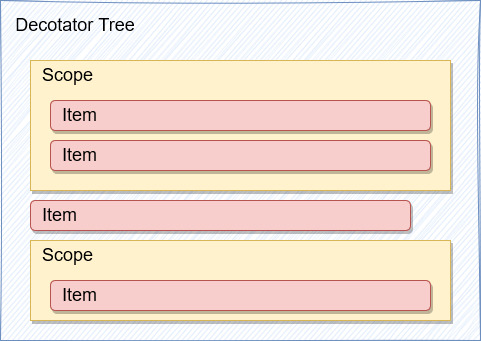
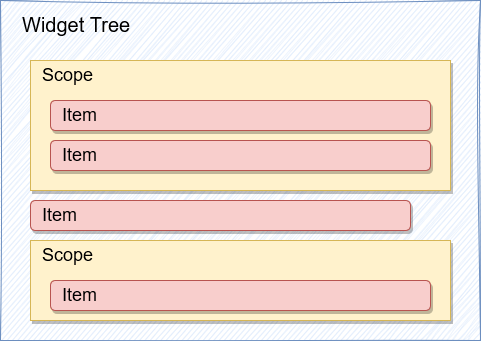
文檔 : 更新至 1.1.0 版本

Changed region(s): [[0.0312, 0.0293, 0.2807, 0.1173]]

diff --git a/Editor/Drawers/DisableIfScopeDrawer.cs b/Editor/Drawers/DisableIfScopeDrawer.cs
@@ -4,8 +4,6 @@ namespace Naukri.InspectorMaid.Editor.Drawers
 {
     public class DisableIfScopeDrawer : WidgetDrawerOf<DisableIfScopeAttribute>
     {
-        public HelpBox HelpBox { get; set; }
-
         public override void OnSceneGUI(IWidget widget)
         {
             var disable = GetBindingValue<bool>();

diff --git a/README.md b/README.md
@@ -2,14 +2,14 @@
 
 ![demo](./Documentation/Images/demo.gif)
 
-這是一個 Unity Inspector 的 UI 自定義工具。你可以使用他為你的 Component 建立一些簡單的互動功能而不需編寫專屬的 Editor。
+這是一個 Unity Inspector 的 UI 自定義工具。你可以使用他為你的 `Component` 中各個成員建立一些簡單的互動功能而不需編寫專屬的 Editor。
 
 Inspector Maid 具有以下幾大特色：
 
 - 使用 UIElement 進行繪製。
 - 可以在 Inspector 介面中直接存取屬性和函式。
-- 支援為同一目標加入多個裝飾器。
-- 可以自訂義專用的裝飾器。
+- 支援為同一目標加入多個小部件。
+- 可以自訂義專用的小部件。
 - 可以透過綁定的方式動態修改內容。
 
 ## Getting Started
@@ -24,30 +24,30 @@ https://github.com/naukri7707/InspectorMaid.git
 
 1. 為腳本引用 InspectorMaid 的命名空間。
 
-```cs
-using Naukri.InspectorMaid;
-```
+    ```cs
+    using Naukri.InspectorMaid;
+    ```
 
-2. 為欄位 / 屬性 / 方法上加上目標裝飾器的 Attribute 進行標記
+2. 在欄位 / 屬性 / 方法上定義 `WidgetAttribute` 以進行標記
 
-```cs
-[HelpBox("My first Inspector Maid code", HelpBoxMessageType.Info)]
-[Divider("Field")]
-public int myIntField;
+    ```cs
+    [HelpBox("My first Inspector Maid code", HelpBoxMessageType.Info)]
+    [Divider("Field")]
+    public int myIntField;
 
-[Divider("Property"), Target, Button("Click me", binding: nameof(HelloWorld), args: "Ruby")]
-public int MyIntProperty => myIntField;
+    [Divider("Property"), Target, Button("Click me", binding: nameof(HelloWorld), args: "Ruby")]
+    public int MyIntProperty => myIntField;
 
-[Divider("Method")]
-public void HelloWorld(string name = "Jonny")
-{
-    Debug.Log($"Hello {name}!");
-}
-```
+    [Divider("Method")]
+    public void HelloWorld(string name = "Jonny")
+    {
+        Debug.Log($"Hello {name}!");
+    }
+    ```
 
 3. 完成！回到 UnityEditor 你會看到以下畫面：
 
-![usage-preview](./Documentation/Images/usage-preview.png)
+    ![usage-preview](./Documentation/Images/usage-preview.png)
 
 
-更完整的說明請參考[這裡](./Documentation/Introduction.md)，以及 package 中的範例場景。
+完整的文檔及範例請參考[這裡](./Documentation/Introduction.md)，以及 package 中的範例場景。
